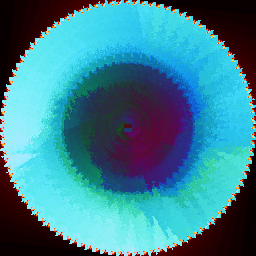
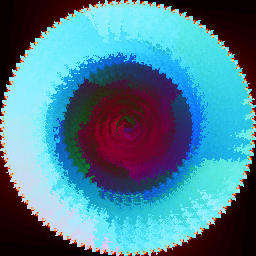
Remove random-mask in favor of choose (#243)

diff --git a/tests/image_tests.rs b/tests/image_tests.rs
@@ -181,8 +181,20 @@ image_test! {
 }
 
 image_test! {
-  name: random_mask,
-  program: "random-mask apply save",
+  name: choose_default_seed,
+  program: "choose:all:circle:cross:square:top:x apply save",
+  browser: true,
+}
+
+image_test! {
+  name: choose_zero_seed,
+  program: "choose:all:circle:cross:square:top:x  apply save",
+  browser: true,
+}
+
+image_test! {
+  name: choose_nonzero_seed,
+  program: "seed:2 choose:all:circle:cross:square:top:x apply save",
   browser: true,
 }
 
@@ -370,14 +382,9 @@ image_test! {
 }
 
 image_test! {
-  name: seed_random_mask,
-  program: "seed:2 random-mask apply save",
-  browser: true,
-}
-
-image_test! {
   name: smear,
-  program: "seed:19798 rotate-color:g:0.01 rotate:0.01 for:100 random-mask apply loop rotate-color:b:0.01 rotate:0.01 for:100 random-mask apply loop save",
+  program: "seed:9 rotate-color:g:0.01 rotate:0.01 for:100 choose:all:circle:cross:square:top:x apply loop rotate-color:b:0.01 rotate:0.01 for:100 choose:all:circle:cross:square:top:x apply loop save",
+  browser: true,
 }
 
 image_test! {
@@ -394,7 +401,8 @@ image_test! {
 
 image_test! {
   name: starburst,
-  program: "seed:12462 rotate-color:g:0.1 rotate:0.1 for:10 random-mask apply loop rotate-color:b:0.1 rotate:0.1 for:10 random-mask apply loop save",
+  program: "seed:8 rotate-color:g:0.1 rotate:0.1 for:10 choose:all:circle:cross:square:top:x apply loop rotate-color:b:0.1 rotate:0.1 for:10 choose:all:circle:cross:square:top:x apply loop save",
+  browser: true,
 }
 
 image_test! {

diff --git a/src/command.rs b/src/command.rs
@@ -5,6 +5,7 @@ pub(crate) enum Command {
   Alpha(f64),
   Apply,
   Autosave,
+  Choose(Vec<Command>),
   Comment,
   Default(Vector3<u8>),
   For(usize),
@@ -14,7 +15,6 @@ pub(crate) enum Command {
   Open(Option<PathBuf>),
   Operation(Operation),
   Print,
-  RandomMask,
   Read,
   #[cfg(not(target_arch = "wasm32"))]
   Repl,
@@ -37,6 +37,13 @@ impl FromStr for Command {
       ["alpha", alpha] => Ok(Self::Alpha(alpha.parse()?)),
       ["apply"] => Ok(Self::Apply),
       ["autosave"] => Ok(Self::Autosave),
+      ["choose", words @ ..] => Ok(Self::Choose(
+        words
+          .iter()
+          .cloned()
+          .map(Command::from_str)
+          .collect::<Result<Vec<Command>>>()?,
+      )),
       ["circle"] => Ok(Self::Mask(Mask::Circle)),
       ["comment", ..] => Ok(Self::Comment),
       ["cross"] => Ok(Self::Mask(Mask::Cross)),
@@ -61,7 +68,6 @@ impl FromStr for Command {
       ["open", path] => Ok(Self::Open(Some(path.parse()?))),
       ["open"] => Ok(Self::Open(None)),
       ["print"] => Ok(Self::Print),
-      ["random-mask"] => Ok(Self::RandomMask),
       ["read"] => Ok(Self::Read),
       ["repl"] => {
         #[cfg(target_arch = "wasm32")]

diff --git a/src/computer.rs b/src/computer.rs
@@ -141,6 +141,11 @@ impl Computer {
       Command::Alpha(alpha) => self.alpha = alpha,
       Command::Apply => self.apply()?,
       Command::Autosave => self.autosave = !self.autosave,
+      Command::Choose(commands) => {
+        if let Some(command) = commands.choose(&mut self.rng) {
+          self.execute(command.clone())?;
+        }
+      }
       Command::Comment => {}
       Command::Default(default) => {
         self.default = Vector4::new(default.x, default.y, default.z, ALPHA_OPAQUE);
@@ -202,10 +207,6 @@ impl Computer {
       Command::Mask(mask) => self.mask = mask,
       Command::Operation(operation) => self.operation = operation,
       Command::Print => self.print()?,
-      Command::RandomMask => {
-        let mask = self.rng.gen();
-        self.execute(Command::Mask(mask))?;
-      }
       Command::Read => {
         let source = fs::read_to_string("program.degen")?;
 

diff --git a/src/main.rs b/src/main.rs
@@ -8,8 +8,7 @@ use {
     Affine2, DMatrix, Matrix3, Point2, Rotation3, Similarity2, UnitComplex, Vector2, Vector3,
     Vector4,
   },
-  rand::Rng,
-  rand::{rngs::StdRng, SeedableRng},
+  rand::{rngs::StdRng, seq::SliceRandom, SeedableRng},
   std::{
     env, f64, fs,
     io::{self, BufWriter, Write},
